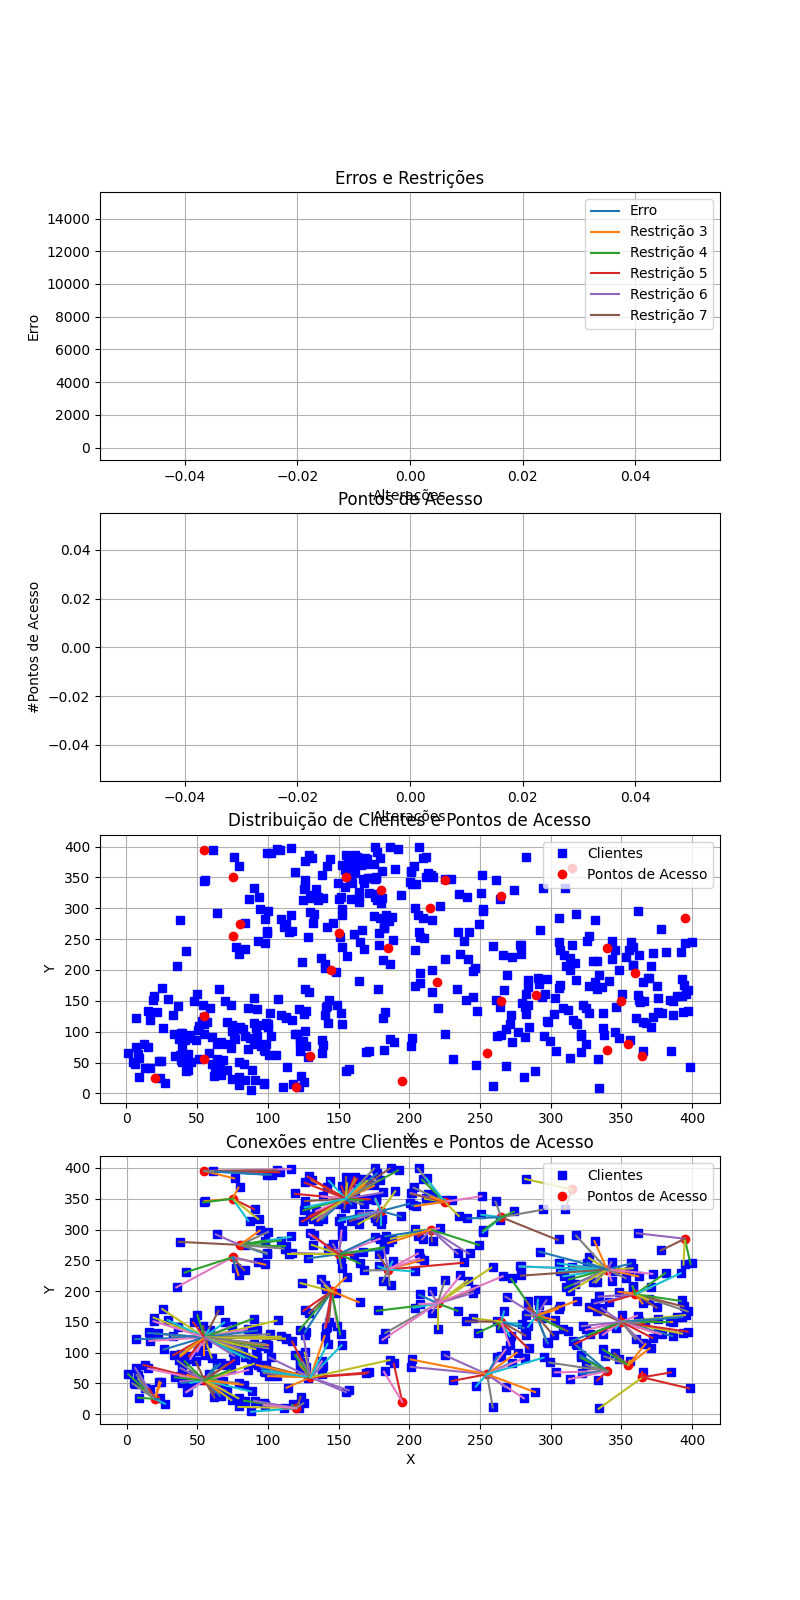
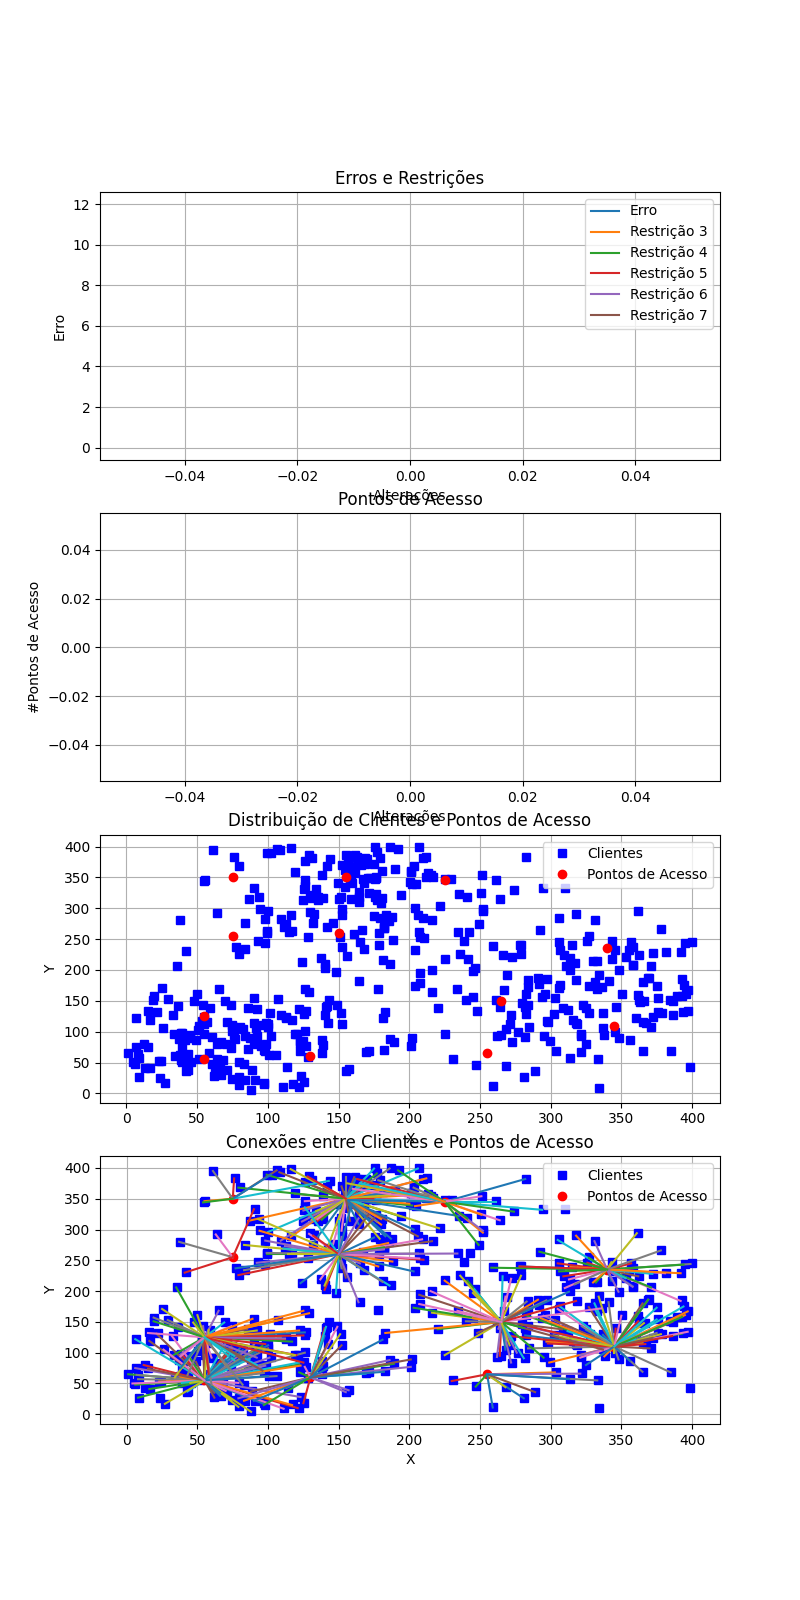
Agora as estruturas de vizinhança nao quebram mais

Changed region(s): [[0.1562, 0.7188, 0.875, 0.9062], [0.0625, 0.125, 0.125, 0.25], [0.75, 0.625, 0.7812, 0.6562]]

diff --git a/entregas/2 entrega/mop_solution/estrutura_vizinhanca.py b/entregas/2 entrega/mop_solution/estrutura_vizinhanca.py
@@ -191,6 +191,7 @@ def k5(dados, log = None):
     Returns:
         dados: O dicionário de dados atualizado com a nova solução.
     """
+    bkp_dados = dados
 
     PAs_ativos = dados['possiveis_coord_PA']
 
@@ -218,7 +219,11 @@ def k5(dados, log = None):
     coluna_PA_novo = dados['cliente_por_PA'][:, len(PAs_ativos) - 1]
     soma_coluna = np.sum(coluna_PA_novo)
     if soma_coluna > 0:
-        print(f"Coluna do PA novo nao ta zerada")
+        linhas_como_tuplas = {tuple(linha) for linha in dados['cliente_por_PA']}
+        linhas_duplicadas = len(linhas_como_tuplas) < len(dados['cliente_por_PA'])
+        if log is not None:
+            print(f"Coluna do PA novo {PA_na_vizinhanca} (idx {len(PAs_ativos) - 1}) nao esta zerada. Linhas dupicadas: {linhas_duplicadas}. Retornando solução recebida")
+        return bkp_dados
     dados['possiveis_coord_PA'] = PAs_ativos
     #Pega ID do novo PA, que é o ultimo da fila, e prioriza a conexao dos desalocados nele
     idx_prioridade = len(PAs_ativos) - 1
@@ -237,6 +242,7 @@ def k6(dados, log = None):
     Returns:
         dados: O dicionário de dados atualizado com a nova solução.
     """
+    bkp_dados = dados
     PAs_ativos_bkp = dados['possiveis_coord_PA']
     PAs_ativos = dados['possiveis_coord_PA']
 
@@ -273,7 +279,11 @@ def k6(dados, log = None):
     coluna_PA_novo = dados['cliente_por_PA'][:, len(PAs_ativos) - 1]
     soma_coluna = np.sum(coluna_PA_novo)
     if soma_coluna > 0:
-        print(f"Coluna do PA novo nao ta zerada")
+        linhas_como_tuplas = {tuple(linha) for linha in dados['cliente_por_PA']}
+        linhas_duplicadas = len(linhas_como_tuplas) < len(dados['cliente_por_PA'])
+        if log is not None:
+            print(f"Coluna do PA novo {PA_no_meio} (idx {len(PAs_ativos) - 1}) nao esta zerada. Linhas dupicadas: {linhas_duplicadas}. Retornando solução recebida")
+        return bkp_dados
     dados['possiveis_coord_PA'] = PAs_ativos
     #Pega ID do novo PA, que é o ultimo da fila, e prioriza a conexao dos desalocados nele
     idx_prioridade = len(PAs_ativos) - 1
@@ -302,6 +312,7 @@ def k7(dados, log = None):
     """
     n_max_PAs = dados['n_max_PAs']
     PAs_ativos = dados['possiveis_coord_PA']
+    bkp_dados = dados
     if (len(PAs_ativos) >= n_max_PAs):
         return dados
 
@@ -331,7 +342,11 @@ def k7(dados, log = None):
     coluna_PA_novo = dados['cliente_por_PA'][:, len(PAs_ativos) - 1]
     soma_coluna = np.sum(coluna_PA_novo)
     if soma_coluna > 0:
-        print(f"Coluna do PA novo nao ta zerada")
+        linhas_como_tuplas = {tuple(linha) for linha in dados['cliente_por_PA']}
+        linhas_duplicadas = len(linhas_como_tuplas) < len(dados['cliente_por_PA'])
+        if log is not None:
+            print(f"Coluna do PA novo {PA_no_meio} (idx {len(PAs_ativos) - 1}) nao esta zerada. Linhas dupicadas: {linhas_duplicadas}. Retornando solução recebida")
+        return bkp_dados
     dados['possiveis_coord_PA'] = PAs_ativos
     #Pega ID do novo PA, que é o ultimo da fila, e prioriza a conexao dos desalocados nele
     idx_prioridade = len(PAs_ativos) - 1

diff --git a/entregas/2 entrega/mop_solution/basicvns.py b/entregas/2 entrega/mop_solution/basicvns.py
@@ -62,9 +62,9 @@ def shake(dados, k):
     # Recomendação para redução de distancia
     # switch = {1: k5, 2: k7, 3: k3, 4: k4 }
     #Recomendação para ambas
-    # switch = {1: k1, 2: k2, 3: k3, 4: k4 }
+    # switch = {1: k1, 2: k6, 3: k5, 4: k4 }
 
-    switch = {1: k1, 2: k2, 3: k5, 4: k4 }
+    switch = {1: k1, 2: k6, 3: k5, 4: k4 }
 
     return switch[k](dados)
 
